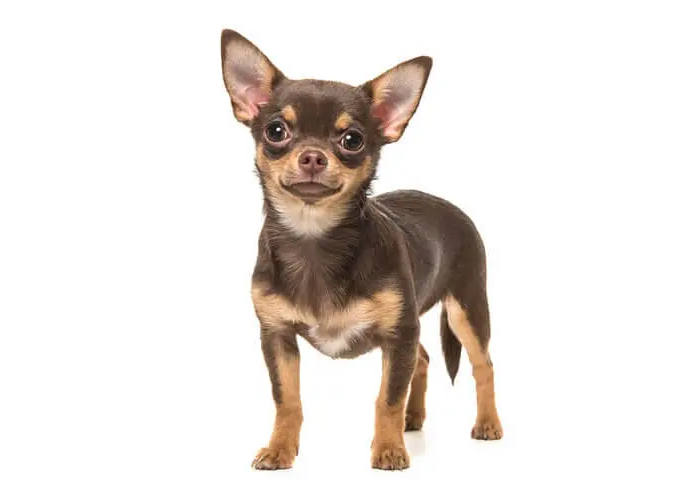
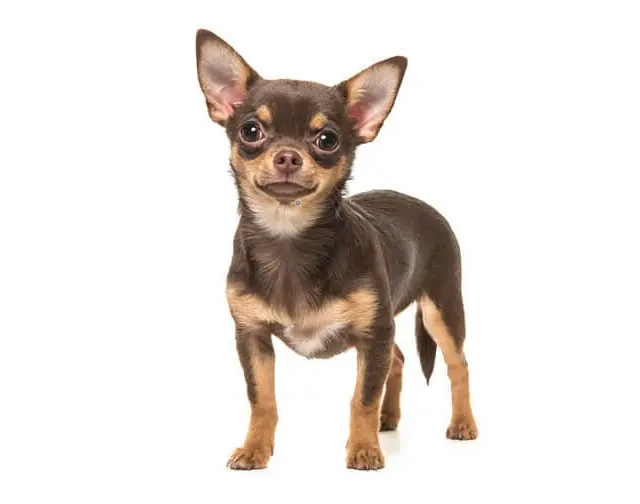
Centre carousel images on pets

Changed region(s): [[0.5, 0.0893, 0.75, 0.9524], [0.2812, 0.0595, 0.5, 0.9524], [0.5938, 0.3571, 0.625, 0.3869]]

diff --git a/services/templates/services/services.html b/services/templates/services/services.html
@@ -32,7 +32,7 @@
             <h3>Each 1 hour session includes a brush, dip, clip and blow dry.</h3>
         </div>
     </div>
-    <div class="row height: 980px">
+    <div class="row">
         <div class="col">
             <div id="carouselExampleIndicators" class="carousel slide" data-bs-ride="carousel">
                 <div class="carousel-indicators">
@@ -42,13 +42,13 @@
                 </div>
                 <div class="carousel-inner">
                   <div class="carousel-item active">
-                    <img src="{% static 'img/carousel-stbernard-large.png'%}" class="d-block w-95" alt="Large">
+                    <img src="{% static 'img/carousel-stbernard-large.png' %}" class="d-block w-100" alt="Large">
                   </div>
                   <div class="carousel-item">
-                    <img src="{% static 'img/carousel-retriever-medium.png'%}" class="d-block w-95" alt="Medium">
+                    <img src="{% static 'img/carousel-retriever-medium.png' %}" class="d-block w-100" alt="Medium">
                   </div>
                   <div class="carousel-item">
-                    <img src="{% static 'img/carousel-chihuahua-small.png'%}" class="d-block w-95" alt="Small">
+                    <img src="{% static 'img/carousel-chihuahua-small.png' %}" class="d-block w-100" alt="Small">
                   </div>
                 </div>
                 <button class="carousel-control-prev" type="button" data-bs-target="#carouselExampleIndicators" data-bs-slide="prev">
